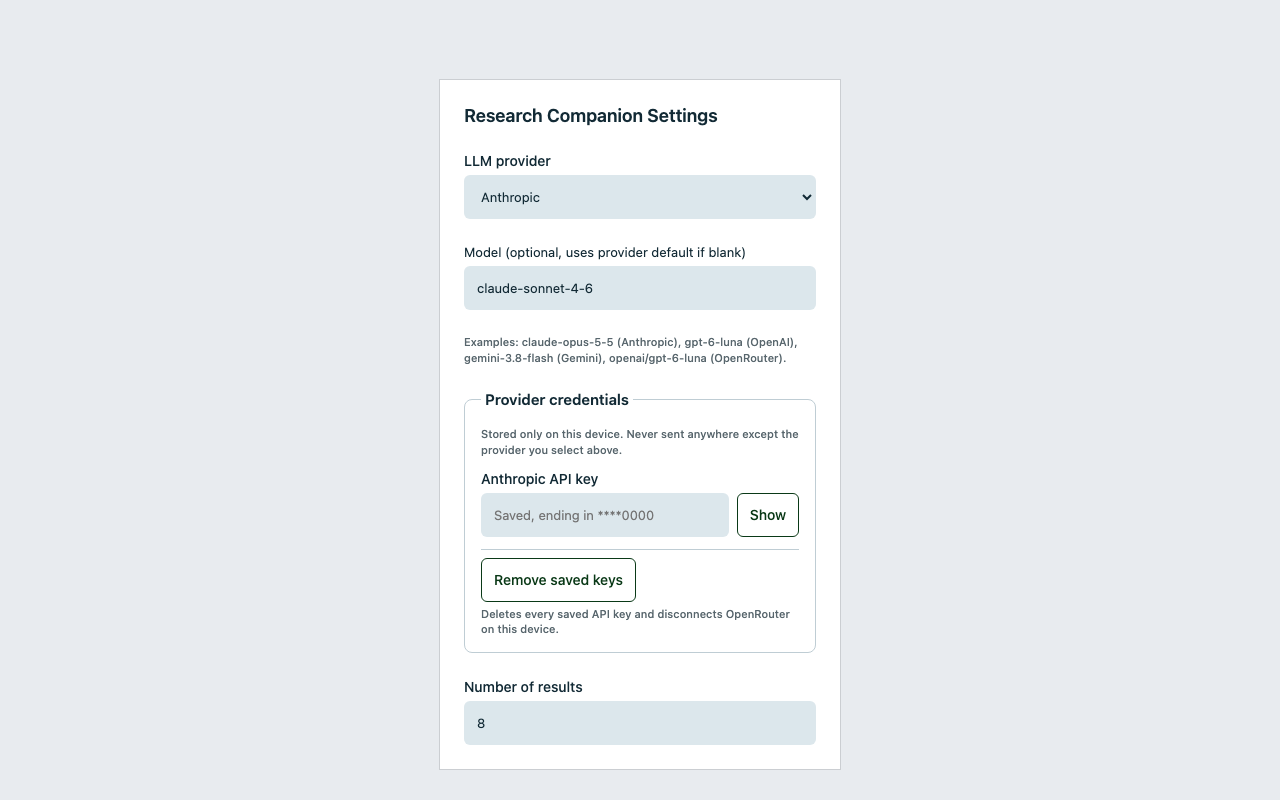
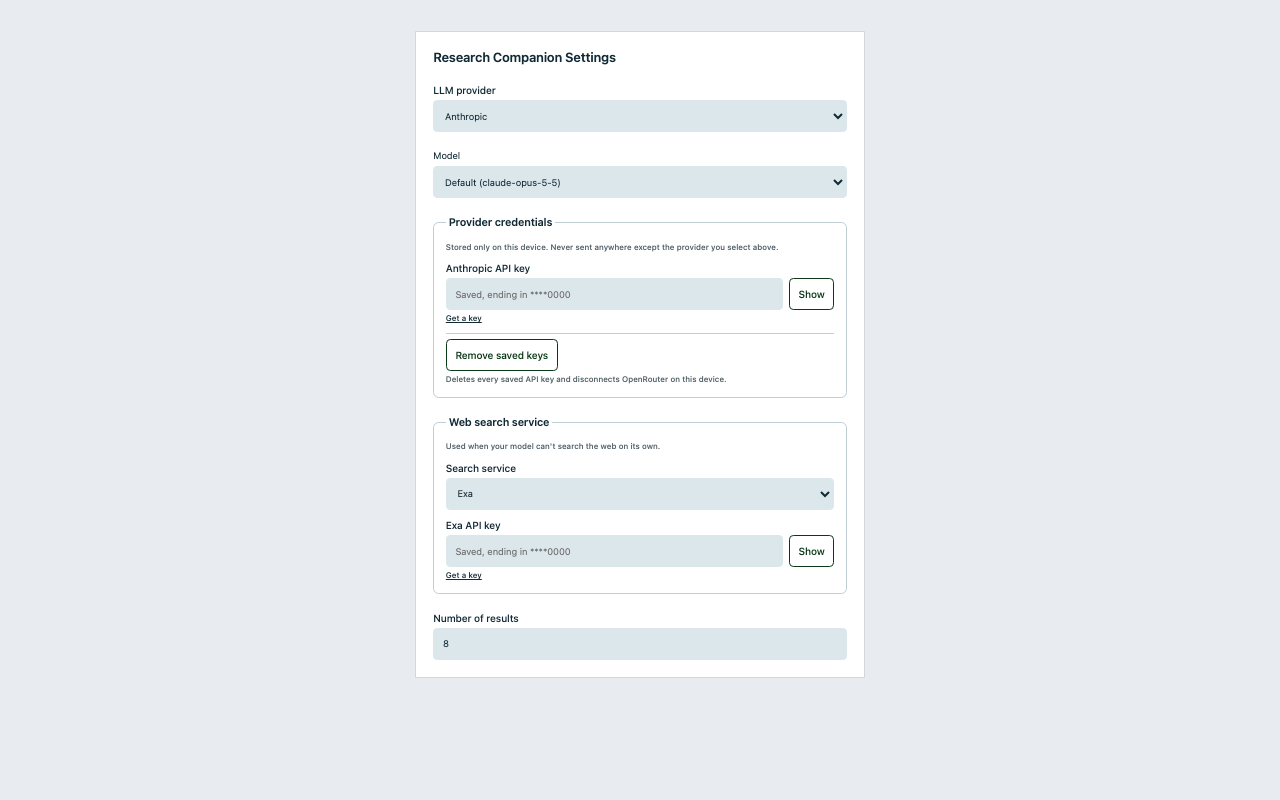
chore: v0.2.0 docs, privacy policy, store listing and version

Changed region(s): [[0.3438, 0.0625, 0.6562, 0.875]]

diff --git a/docs/privacy-policy.html b/docs/privacy-policy.html
@@ -189,9 +189,19 @@
       <li><code>https://api.anthropic.com</code> (Anthropic)</li>
       <li><code>https://api.openai.com</code> (OpenAI)</li>
       <li><code>https://generativelanguage.googleapis.com</code> (Google Gemini API)</li>
-      <li><code>https://openrouter.ai</code> (OpenRouter, including its sign-in page and key-exchange endpoint when you choose "Connect to OpenRouter")</li>
+      <li><code>https://openrouter.ai</code> (OpenRouter)</li>
+      <li><code>https://api.deepseek.com</code> (DeepSeek)</li>
+      <li><code>https://api.moonshot.ai</code> (Kimi, Moonshot AI)</li>
+      <li><code>https://api.x.ai</code> (xAI)</li>
+      <li><code>https://ollama.com</code> (Ollama Cloud)</li>
+      <li><code>https://api.together.ai</code> (Together AI)</li>
+      <li><code>https://router.huggingface.co</code> (Hugging Face)</li>
+      <li><code>https://api.cerebras.ai</code> (Cerebras)</li>
+      <li><code>https://opencode.ai</code> (OpenCode Zen)</li>
+      <li><code>https://api.exa.ai</code> (Exa, search service)</li>
+      <li><code>https://api.tavily.com</code> (Tavily, search service)</li>
     </ul>
-    <p>Only the provider you currently have selected receives your page content. The OpenRouter sign-in uses Chrome's <code>identity</code> permission and the OAuth PKCE flow; the extension never sees your OpenRouter password.</p>
+    <p>Only the provider you currently have selected receives your page content. The Exa and Tavily hosts receive data only if you add a key for them (see Search key mode below). The OpenRouter sign-in uses Chrome's <code>identity</code> permission and the OAuth PKCE flow; the extension never sees your OpenRouter password.</p>
   </section>
 
   <section>
@@ -210,11 +220,22 @@
     <h2>Third-party AI providers</h2>
     <p>Once your page content reaches a provider, that provider's own terms and privacy policy govern how it processes, retains, and (depending on your account and plan) may use it. The developer does not control this. Review the policies of the provider you select:</p>
     <ul>
-      <li>Anthropic: <a href="https://www.anthropic.com/legal/privacy">anthropic.com/legal/privacy</a></li>
-      <li>OpenAI: <a href="https://openai.com/policies/privacy-policy">openai.com/policies/privacy-policy</a></li>
-      <li>Google Gemini API: <a href="https://ai.google.dev/gemini-api/terms">ai.google.dev/gemini-api/terms</a> and <a href="https://policies.google.com/privacy">policies.google.com/privacy</a></li>
-      <li>OpenRouter: <a href="https://openrouter.ai/privacy">openrouter.ai/privacy</a>. OpenRouter forwards requests to underlying model providers, whose policies may also apply.</li>
+      <li>Anthropic: <a href="https://www.anthropic.com/legal/privacy">anthropic.com/legal/privacy</a>.</li>
+      <li>OpenAI: <a href="https://openai.com/policies/privacy-policy">openai.com/policies/privacy-policy</a>.</li>
+      <li>Google Gemini API: <a href="https://policies.google.com/privacy">policies.google.com/privacy</a>.</li>
+      <li>OpenRouter: <a href="https://openrouter.ai/privacy">openrouter.ai/privacy</a>. OpenRouter forwards requests to underlying model providers, whose policies may also apply. Its host also serves the sign-in page and key-exchange endpoint when you choose "Connect to OpenRouter".</li>
+      <li>DeepSeek: <a href="https://cdn.deepseek.com/policies/en-US/deepseek-privacy-policy.html">deepseek.com privacy policy</a>. DeepSeek states that it stores data on servers in China.</li>
+      <li>Kimi (Moonshot AI): <a href="https://platform.kimi.ai/docs/agreement/userprivacy">platform.kimi.ai/docs/agreement/userprivacy</a>. Kimi's operator, Moonshot AI Pte. Ltd., is based in Singapore.</li>
+      <li>xAI: <a href="https://x.ai/legal/privacy-policy">x.ai/legal/privacy-policy</a>. API data terms: <a href="https://x.ai/legal/terms-of-service-enterprise">x.ai/legal/terms-of-service-enterprise</a>.</li>
+      <li>Ollama Cloud: <a href="https://ollama.com/privacy">ollama.com/privacy</a>.</li>
+      <li>Together AI: <a href="https://www.together.ai/privacy">together.ai/privacy</a>.</li>
+      <li>Hugging Face: <a href="https://huggingface.co/privacy">huggingface.co/privacy</a>.</li>
+      <li>Cerebras: <a href="https://www.cerebras.ai/privacy-policy">cerebras.ai/privacy-policy</a>.</li>
+      <li>OpenCode Zen: <a href="https://opencode.ai/legal/privacy-policy">opencode.ai/legal/privacy-policy</a>.</li>
+      <li>Exa (search service): <a href="https://exa.ai/privacy-policy">exa.ai/privacy-policy</a>.</li>
+      <li>Tavily (search service): <a href="https://www.tavily.com/privacy">tavily.com/privacy</a>.</li>
     </ul>
+    <p><strong>Search key mode.</strong> Some providers (Ollama Cloud, Together AI, Hugging Face, Cerebras, OpenCode Zen) have no built-in web search. For these, you add your own Exa or Tavily key in Settings. The page title and text go to the AI provider you selected, which writes a few search queries. Only those AI-written search queries are sent to Exa or Tavily, never the page text or the page URL. Exa or Tavily returns result links and snippets, which are sent back to your AI provider to rank. Your Exa or Tavily key is stored on your device and sent only to that search service.</p>
     <p>Please do not analyze pages containing sensitive personal information (for example, private email, medical records, or internal documents) unless you are comfortable with it being sent to your chosen provider.</p>
   </section>
 
@@ -223,7 +244,7 @@
     <ul>
       <li>All extension data is stored in <code>chrome.storage.local</code> on your device. Nothing is synced across devices or uploaded by the extension.</li>
       <li>History is capped at the 50 most recent sessions; older entries are discarded automatically. You can delete a single entry or use the <strong>Clear</strong> button in the side panel to delete all history.</li>
-      <li>You can replace an API key in Settings at any time, or click “Remove saved keys” in Settings to delete every stored API key and disconnect OpenRouter on this device. Uninstalling the extension deletes all of its stored data from your browser. To revoke an OpenRouter connection, remove the key in your OpenRouter account.</li>
+      <li>You can replace an API key in Settings at any time, or click “Remove saved keys” in Settings to delete every stored API key, every stored search key, and the OpenRouter connection on this device. Uninstalling the extension deletes all of its stored data from your browser. To revoke an OpenRouter connection, remove the key in your OpenRouter account.</li>
       <li>Data already sent to a provider is retained according to that provider's policy; request deletion from the provider directly.</li>
     </ul>
   </section>

diff --git a/docs/terms.html b/docs/terms.html
@@ -180,7 +180,7 @@
   <section>
     <h2>Your API keys, costs, and provider terms</h2>
     <ul>
-      <li>The extension works only with credentials you supply: your own API key (Anthropic, OpenAI, Google Gemini) or an OpenRouter account you connect. You are responsible for keeping those credentials secure.</li>
+      <li>The extension works only with credentials you supply: your own API key (for example Anthropic, OpenAI, Google Gemini, DeepSeek, Kimi, xAI, or any other provider or search service listed in the Privacy Policy) or an OpenRouter account you connect. You are responsible for keeping those credentials secure.</li>
       <li><strong>You are solely responsible for all charges</strong> incurred with your provider, including web-search tool fees and token usage. Each analysis sends up to roughly 12,000 characters of page text and triggers provider-side web searches, which may be billed.</li>
       <li>You must comply with each provider's terms of service, usage policies, and any rate limits. Your content is processed by the provider under its terms; see our <a href="privacy-policy.html">Privacy Policy</a>.</li>
       <li>You are responsible for ensuring you have the right to analyze the pages you use the extension on, and for not sending confidential or regulated information to a provider where that is not permitted.</li>
@@ -199,7 +199,7 @@
 
   <section>
     <h2>No affiliation; trademarks</h2>
-    <p>Research Companion is an independent project. It is <strong>not affiliated with, sponsored by, or endorsed by</strong> Anthropic, OpenAI, Google, or OpenRouter. Claude, Anthropic, OpenAI, ChatGPT, Google, Gemini, Chrome, and OpenRouter are trademarks of their respective owners and are used here only to describe compatibility.</p>
+    <p>Research Companion is an independent project. It is <strong>not affiliated with, sponsored by, or endorsed by</strong> Anthropic, OpenAI, Google, OpenRouter, DeepSeek, Moonshot AI (Kimi), xAI, Ollama, Together AI, Hugging Face, Cerebras, OpenCode, Exa, or Tavily. Claude, Anthropic, OpenAI, ChatGPT, Google, Gemini, Chrome, OpenRouter, DeepSeek, Kimi, xAI, Grok, Ollama, Together AI, Hugging Face, Cerebras, OpenCode, Exa, and Tavily are trademarks of their respective owners and are used here only to describe compatibility.</p>
   </section>
 
   <section>

diff --git a/scripts/screenshots/options-harness.html b/scripts/screenshots/options-harness.html
@@ -15,13 +15,15 @@
       align-items: flex-start;
       justify-content: center;
       box-sizing: border-box;
-      padding: 40px;
+      padding: 16px;
     }
+    .model-extra, #permission-status:empty, #model-status:empty { display: none; }
     #frame {
       width: 640px;
       background: var(--bg, #fff);
       box-shadow: 0 0 0 1px oklch(85% 0.006 250);
       padding: 24px;
+      zoom: 0.72;
     }
   </style>
 </head>
@@ -38,9 +40,8 @@
       <p class="field-hint" id="permission-status" role="status" aria-live="polite"></p>
       <label class="field-secondary">
         Model
-        <select name="model"><option value="">Default (claude-opus-5-5)</option><option value="__custom__">Type a model name…</option></select>
+        <select name="model"><option value="">Default (claude-opus-5-5)</option><option value="claude-sonnet-4-6" selected>claude-sonnet-4-6</option><option value="__custom__">Type a model name…</option></select>
       </label>
-      <p class="field-hint">Examples: claude-opus-5-5 (Anthropic), gpt-6-luna (OpenAI), gemini-3.8-flash (Gemini), openai/gpt-6-luna (OpenRouter).</p>
       <div class="model-extra">
         <input type="text" name="modelCustom" placeholder="Model name" aria-label="Model name" hidden />
         <button type="button" id="refresh-models" class="button-secondary">Refresh models</button>
@@ -83,7 +84,7 @@
 
     const sampleSettings = {
       provider: 'anthropic',
-      models: { anthropic: 'claude-sonnet-4-6' },
+      models: {},
       apiKeys: { anthropic: 'sk-ant-sample0000000000000000000' },
       searchService: 'exa',
       searchKeys: { exa: 'exa-sample-00000000' },

diff --git a/docs/privacy-policy.md b/docs/privacy-policy.md
@@ -23,9 +23,19 @@ Requests go directly from your browser to the provider you selected. They do not
 - `https://api.anthropic.com` (Anthropic)
 - `https://api.openai.com` (OpenAI)
 - `https://generativelanguage.googleapis.com` (Google Gemini API)
-- `https://openrouter.ai` (OpenRouter, including its sign-in page and key-exchange endpoint when you choose "Connect to OpenRouter")
+- `https://openrouter.ai` (OpenRouter)
+- `https://api.deepseek.com` (DeepSeek)
+- `https://api.moonshot.ai` (Kimi, Moonshot AI)
+- `https://api.x.ai` (xAI)
+- `https://ollama.com` (Ollama Cloud)
+- `https://api.together.ai` (Together AI)
+- `https://router.huggingface.co` (Hugging Face)
+- `https://api.cerebras.ai` (Cerebras)
+- `https://opencode.ai` (OpenCode Zen)
+- `https://api.exa.ai` (Exa, search service)
+- `https://api.tavily.com` (Tavily, search service)
 
-Only the provider you currently have selected receives your page content. The OpenRouter sign-in uses Chrome's `identity` permission and the OAuth PKCE flow; the extension never sees your OpenRouter password.
+Only the provider you currently have selected receives your page content. The Exa and Tavily hosts receive data only if you add a key for them (see Search key mode below). The OpenRouter sign-in uses Chrome's `identity` permission and the OAuth PKCE flow; the extension never sees your OpenRouter password.
 
 ## What the developer does not do
 
@@ -42,10 +52,22 @@ The developer does not operate a backend server and has no access to your page c
 
 Once your page content reaches a provider, that provider's own terms and privacy policy govern how it processes, retains, and (depending on your account and plan) may use it. The developer does not control this. Review the policies of the provider you select:
 
-- Anthropic: [anthropic.com/legal/privacy](https://www.anthropic.com/legal/privacy)
-- OpenAI: [openai.com/policies/privacy-policy](https://openai.com/policies/privacy-policy)
-- Google Gemini API: [ai.google.dev/gemini-api/terms](https://ai.google.dev/gemini-api/terms) and [policies.google.com/privacy](https://policies.google.com/privacy)
-- OpenRouter: [openrouter.ai/privacy](https://openrouter.ai/privacy). OpenRouter forwards requests to underlying model providers, whose policies may also apply.
+- Anthropic: [anthropic.com/legal/privacy](https://www.anthropic.com/legal/privacy).
+- OpenAI: [openai.com/policies/privacy-policy](https://openai.com/policies/privacy-policy).
+- Google Gemini API: [policies.google.com/privacy](https://policies.google.com/privacy).
+- OpenRouter: [openrouter.ai/privacy](https://openrouter.ai/privacy). OpenRouter forwards requests to underlying model providers, whose policies may also apply. Its host also serves the sign-in page and key-exchange endpoint when you choose "Connect to OpenRouter".
+- DeepSeek: [deepseek.com privacy policy](https://cdn.deepseek.com/policies/en-US/deepseek-privacy-policy.html). DeepSeek states that it stores data on servers in China.
+- Kimi (Moonshot AI): [platform.kimi.ai/docs/agreement/userprivacy](https://platform.kimi.ai/docs/agreement/userprivacy). Kimi's operator, Moonshot AI Pte. Ltd., is based in Singapore.
+- xAI: [x.ai/legal/privacy-policy](https://x.ai/legal/privacy-policy). API data terms: [x.ai/legal/terms-of-service-enterprise](https://x.ai/legal/terms-of-service-enterprise).
+- Ollama Cloud: [ollama.com/privacy](https://ollama.com/privacy).
+- Together AI: [together.ai/privacy](https://www.together.ai/privacy).
+- Hugging Face: [huggingface.co/privacy](https://huggingface.co/privacy).
+- Cerebras: [cerebras.ai/privacy-policy](https://www.cerebras.ai/privacy-policy).
+- OpenCode Zen: [opencode.ai/legal/privacy-policy](https://opencode.ai/legal/privacy-policy).
+- Exa (search service): [exa.ai/privacy-policy](https://exa.ai/privacy-policy).
+- Tavily (search service): [tavily.com/privacy](https://www.tavily.com/privacy).
+
+**Search key mode.** Some providers (Ollama Cloud, Together AI, Hugging Face, Cerebras, OpenCode Zen) have no built-in web search. For these, you add your own Exa or Tavily key in Settings. The page title and text go to the AI provider you selected, which writes a few search queries. Only those AI-written search queries are sent to Exa or Tavily, never the page text or the page URL. Exa or Tavily returns result links and snippets, which are sent back to your AI provider to rank. Your Exa or Tavily key is stored on your device and sent only to that search service.
 
 Please do not analyze pages containing sensitive personal information (for example, private email, medical records, or internal documents) unless you are comfortable with it being sent to your chosen provider.
 
@@ -53,7 +75,7 @@ Please do not analyze pages containing sensitive personal information (for examp
 
 - All extension data is stored in `chrome.storage.local` on your device. Nothing is synced across devices or uploaded by the extension.
 - History is capped at the 50 most recent sessions; older entries are discarded automatically. You can delete a single entry or use the **Clear** button in the side panel to delete all history.
-- You can replace an API key in Settings at any time, or click “Remove saved keys” in Settings to delete every stored API key and disconnect OpenRouter on this device. Uninstalling the extension deletes all of its stored data from your browser. To revoke an OpenRouter connection, remove the key in your OpenRouter account.
+- You can replace an API key in Settings at any time, or click “Remove saved keys” in Settings to delete every stored API key, every stored search key, and the OpenRouter connection on this device. Uninstalling the extension deletes all of its stored data from your browser. To revoke an OpenRouter connection, remove the key in your OpenRouter account.
 - Data already sent to a provider is retained according to that provider's policy; request deletion from the provider directly.
 
 ## This website

diff --git a/docs/chrome-web-store-listing.md b/docs/chrome-web-store-listing.md
@@ -19,18 +19,18 @@ Click the toolbar icon and it reads the page you're on, then uses your chosen AI
 
 HOW IT WORKS
 - Click the toolbar icon (or press Alt+Shift+R to re-run). Nothing happens until you do.
-- The readable text of the current tab is extracted in your browser and sent directly to the provider you picked: Anthropic, OpenAI, Google Gemini, or OpenRouter.
+- The readable text of the current tab is extracted in your browser and sent directly to the provider you picked: Anthropic, OpenAI, Google Gemini, OpenRouter, DeepSeek, Kimi, xAI, Ollama Cloud, Together AI, Hugging Face, Cerebras, or OpenCode Zen. Providers without built-in web search (Ollama Cloud, Together AI, Hugging Face, Cerebras, OpenCode Zen) use your own Exa or Tavily search key; only the AI-written search queries go to Exa or Tavily, never the page text or URL.
 - Related pages appear in the side panel, ranked by relevance.
 
 BRING YOUR OWN KEY
-You use your own API key (Anthropic, OpenAI, Gemini) or sign in with OpenRouter. There is no developer-run backend, no account, no analytics, and no ads. Your page content and credentials never pass through any server operated by the developer. You pay your provider directly for usage.
+You use your own API key for any supported provider, or sign in with OpenRouter. There is no developer-run backend, no account, no analytics, and no ads. Your page content and credentials never pass through any server operated by the developer. You pay your provider directly for usage.
 
 PRIVATE BY DESIGN
 - Runs only when you click. No background reading of tabs, no auto-triggering.
 - API keys and history stay in local browser storage on your device.
 - No tracking, no data sale. Page text goes only to the provider you select.
 
-Requires an API key from Anthropic, OpenAI, or Google Gemini, or an OpenRouter account.
+Requires an API key from a supported provider (plus a free Exa or Tavily key for providers without built-in search), or an OpenRouter account.
 
 Privacy policy: https://aryamanw.github.io/researcher-ai-extn/privacy-policy.html
 Terms: https://aryamanw.github.io/researcher-ai-extn/terms.html
@@ -63,7 +63,8 @@ Regenerate all with `node scripts/capture-screenshots.mjs` (needs `npx playwrigh
 | `activeTab` | Grants temporary access to only the tab the user is viewing, only after they click the icon or use the shortcut, so `scripting` can run without any broad host permission for web pages. |
 | `storage` | Saves the user's provider, model, API keys, result count, and past research history in `chrome.storage.local` on the device. Nothing is synced or sent to the developer. |
 | `identity` | Used only for `chrome.identity.launchWebAuthFlow` and `getRedirectURL` in the OpenRouter "Connect" sign-in (OAuth PKCE), so users can authorize OpenRouter without pasting a key. |
-| Host permissions: `https://api.anthropic.com/*`, `https://api.openai.com/*`, `https://generativelanguage.googleapis.com/*`, `https://openrouter.ai/*` | The extension calls these LLM provider APIs directly from the browser, with the user's own credentials, to run web search and write relevance notes. The user selects one provider; no other domains are contacted. There is no developer server and no Brave Search or other search host. |
+| Host permissions: `https://api.anthropic.com/*`, `https://api.openai.com/*`, `https://generativelanguage.googleapis.com/*`, `https://openrouter.ai/*` | The extension calls these LLM provider APIs directly from the browser, with the user's own credentials, to run web search and write relevance notes. The user selects one provider; no other domains are contacted. There is no developer server. |
+| `optional_host_permissions` (DeepSeek, Kimi, xAI, Ollama Cloud, Together AI, Hugging Face, Cerebras, OpenCode Zen, Exa, Tavily API hosts) | Requested at runtime only when the user selects that provider or search service in Settings; lets the extension call that service's API with the user's own key. |
 
 **Remote code:** No, I am not using remote code. All JavaScript ships in the package (CSP: `script-src 'self'; object-src 'self'`); the extension only sends data to and reads JSON from the provider APIs above.
 

diff --git a/TODO.md b/TODO.md
@@ -2,15 +2,12 @@
 
 Open items for the Chrome Web Store launch and after. Copy-paste text for every dashboard field is in [docs/chrome-web-store-listing.md](docs/chrome-web-store-listing.md).
 
-## In progress
-
-- [ ] **Model structure.** Decide how default models, model choice, and web-search tool versions are organized per provider, so retired models don't silently break the extension again.
-
 ## Chrome Web Store submission
 
 - [ ] Developer Dashboard → Account: set and verify a contact email (required to publish; doesn't have to be the one shown publicly).
 - [ ] Turn on 2-step verification for the Google account that owns the developer account.
-- [ ] New item → upload `research-companion-v0.1.4.zip` (from the v0.1.4 GitHub release, or `npm run package`).
+- [ ] **Release gate.** Before uploading v0.2.0: test every shipped provider with a real key (Mode 1 search returns cited results; Mode 2 with Exa and Tavily). Least-verified: OpenRouter chat-completions search, Gemini grounding host-matching, Anthropic `allowed_callers`.
+- [ ] New item → upload `research-companion-v0.2.0.zip` (from the v0.2.0 GitHub release, or `npm run package`).
 - [ ] Store listing tab: paste the description, category Productivity, language English; upload `store-assets/screenshot-sidepanel.png`, `store-assets/screenshot-options.png`, `store-assets/promo-small-440x280.png`.
 - [ ] Privacy practices tab: single purpose, per-permission justifications, remote code = No, data usage = Website content + Authentication information only, tick all three certifications, privacy policy URL.
 - [ ] Create a spend-limited Anthropic API key (e.g. $5 cap) for reviewers. Paste it **only** into the dashboard "Test instructions" field. Never commit it.
@@ -29,8 +26,9 @@ Open items for the Chrome Web Store launch and after. Copy-paste text for every 
 
 - [ ] Real store screenshots: the side panel open next to an actual article, full-bleed with no padding (Chrome's recommendation). Current ones show the UI centered on grey.
 - [ ] Keyboard-shortcut race: `background.js` sends `RUN_SEARCH` right after `sidePanel.open()`. If the panel hasn't loaded its listener yet, the message is dropped (the panel still runs on load, so it's minor).
-- [ ] Groq dropped from v0.2.0 (provider registry): `browser_search` docs show no source URLs in the response (only inline `【2†L6-L10】` markers), so Mode 1 can't work. Re-add if a live test shows URLs in `message.annotations` or `executed_tools[].search_results`. See `docs/provider-verification.md`.
-- [ ] Gemini Mode 1: `groundingChunks[].web.uri` are Google redirect URLs (title is the domain), so exact-URL citation filtering won't match; needs a hostname match or redirect resolution. `generateContent` is also marked legacy by Google (Interactions API recommended).
+- [ ] Groq re-check (dropped: no source URLs). `browser_search` docs show no URLs in the response; re-add if a live test shows URLs in `message.annotations` or `executed_tools[].search_results`. See `docs/provider-verification.md`.
+- [ ] Gemini Interactions API migration (`generateContent` is labelled legacy by Google).
+- [ ] Chrome built-in AI (Gemini Nano) for on-device query generation.
 - [ ] Anthropic web search can return `stop_reason: "pause_turn"` on long searches; the client doesn't resume the turn yet.
 - [ ] Optional privacy features: a "don't save history" toggle; skip extraction on obviously sensitive hosts (webmail, banking) or show a one-time notice that page text goes to the selected provider.
 - [ ] Refresh `docs/PRD.md`, `docs/TRD.md`, `docs/APP-FLOW.md`, `DESIGN.md` (they still describe the old two-call pipeline and Brave Search) before un-ignoring and publishing them.

diff --git a/README.md b/README.md
@@ -37,8 +37,12 @@ It connects directly to the AI provider and search service you choose, using you
 ### Connect a provider
 
 1. Right-click the toolbar icon → **Options** (or `chrome://extensions` → Research Companion → **Details** → **Extension options**).
-2. Connect an AI provider: click **Connect to OpenRouter** to sign in without pasting a key, or paste an Anthropic, OpenAI, or Gemini API key directly.
-3. Pick the provider you just connected from the **LLM provider** dropdown — that provider's own web search finds the related pages, no separate search key needed. Result quality depends on which provider's web search you use, so you may notice differences if you switch providers.
+2. Pick a provider in the **LLM provider** dropdown and paste its API key (or click **Connect to OpenRouter** to sign in without a key). Providers work in one of two modes:
+   - **Built-in search (no extra key):** Anthropic, OpenAI, Gemini, OpenRouter, DeepSeek, Kimi, xAI. The provider's own web search finds the related pages.
+   - **Search key mode:** Ollama Cloud, Together AI, Hugging Face, Cerebras, OpenCode Zen. These have no built-in web search, so you also add a search key under **Search service**. Only the AI-written search queries go to the search service, never the page text or URL.
+3. For search key mode, get a key from [Exa](https://dashboard.exa.ai/api-keys) (free monthly credits, no card) or [Tavily](https://app.tavily.com) (1,000 free searches a month, no card).
+
+Chrome asks for permission the first time you pick a provider or search service that needs it. Result quality depends on the provider's web search, so you may notice differences if you switch.
 
 Settings save automatically as you fill them in.
 
@@ -55,7 +59,7 @@ If a page has no readable content (a PDF, a paywall stub, an app shell), the pan
 
 Research Companion runs entirely in your browser. There's no backend, no account, and no telemetry.
 
-When you click the icon, a one-shot script reads the readable text of the active tab only. It never reads tabs you haven't clicked on, and never runs in the background. That text is sent to your chosen AI provider (Anthropic, OpenAI, Gemini, or OpenRouter) along with an instruction to use its own web search to find related pages and write a short relevance note for each — using your own key or OpenRouter connection, with no separate search API key.
+When you click the icon, a one-shot script reads the readable text of the active tab only. It never reads tabs you haven't clicked on, and never runs in the background. That text is sent to your chosen AI provider (Anthropic, OpenAI, Gemini, OpenRouter, DeepSeek, Kimi, xAI, Ollama Cloud, Together AI, Hugging Face, Cerebras, or OpenCode Zen) along with an instruction to find related pages and write a short relevance note for each. Providers with built-in web search do the searching themselves. For the others, the provider writes search queries and your Exa or Tavily key runs them. Everything uses your own keys.
 
 Your provider settings, API keys, and the last 50 research sessions live only in your browser's local extension storage (`chrome.storage.local`). Nothing syncs, and nothing gets sent anywhere except the provider you configured.
 

diff --git a/CHANGELOG.md b/CHANGELOG.md
@@ -4,6 +4,23 @@ All notable changes to this project are documented here. The format is based on 
 
 ## [Unreleased]
 
+## [0.2.0] - 2026-11-20
+
+### Added
+- Provider registry: 12 providers in two modes. Built-in search: Anthropic, OpenAI, Gemini, OpenRouter, DeepSeek, Kimi, xAI. Search key mode (bring an Exa or Tavily key): Ollama Cloud, Together AI, Hugging Face, Cerebras, OpenCode Zen.
+- Exa and Tavily search services, with per-step progress in the side panel.
+- Live per-provider model lists in Settings, with a custom model option.
+- Optional host permissions requested at runtime only when a provider or search service is selected.
+- "Remove saved keys" now also clears search keys.
+
+### Changed
+- Settings page and side panel are driven by the provider registry; existing settings migrate automatically.
+- Privacy policy, terms, and store listing name all providers and search services.
+
+### Fixed
+- Gemini results were never kept: citations previously never matched because Google grounding returns redirect URLs. Results now match by domain.
+- Anthropic web search sets `allowed_callers` so models without programmatic tool calling no longer return a 400.
+
 ## [0.1.4] - 2026-11-20
 
 First Chrome Web Store release.
@@ -81,7 +98,8 @@ First Chrome Web Store release.
 - Message-sender validation, OAuth state check, prompt hardening, and Content Security Policy with `connect-src` allowlist.
 - Gemini API key sent via header instead of URL query string; Gemini model name validated.
 
-[Unreleased]: https://github.com/aryamanw/researcher-ai-extn/compare/v0.1.3...HEAD
+[Unreleased]: https://github.com/aryamanw/researcher-ai-extn/compare/v0.2.0...HEAD
+[0.2.0]: https://github.com/aryamanw/researcher-ai-extn/compare/v0.1.4...v0.2.0
 [0.1.3]: https://github.com/aryamanw/researcher-ai-extn/compare/v0.1.2...v0.1.3
 [0.1.2]: https://github.com/aryamanw/researcher-ai-extn/compare/v0.1.1...v0.1.2
 [0.1.1]: https://github.com/aryamanw/researcher-ai-extn/compare/v0.1.0...v0.1.1
